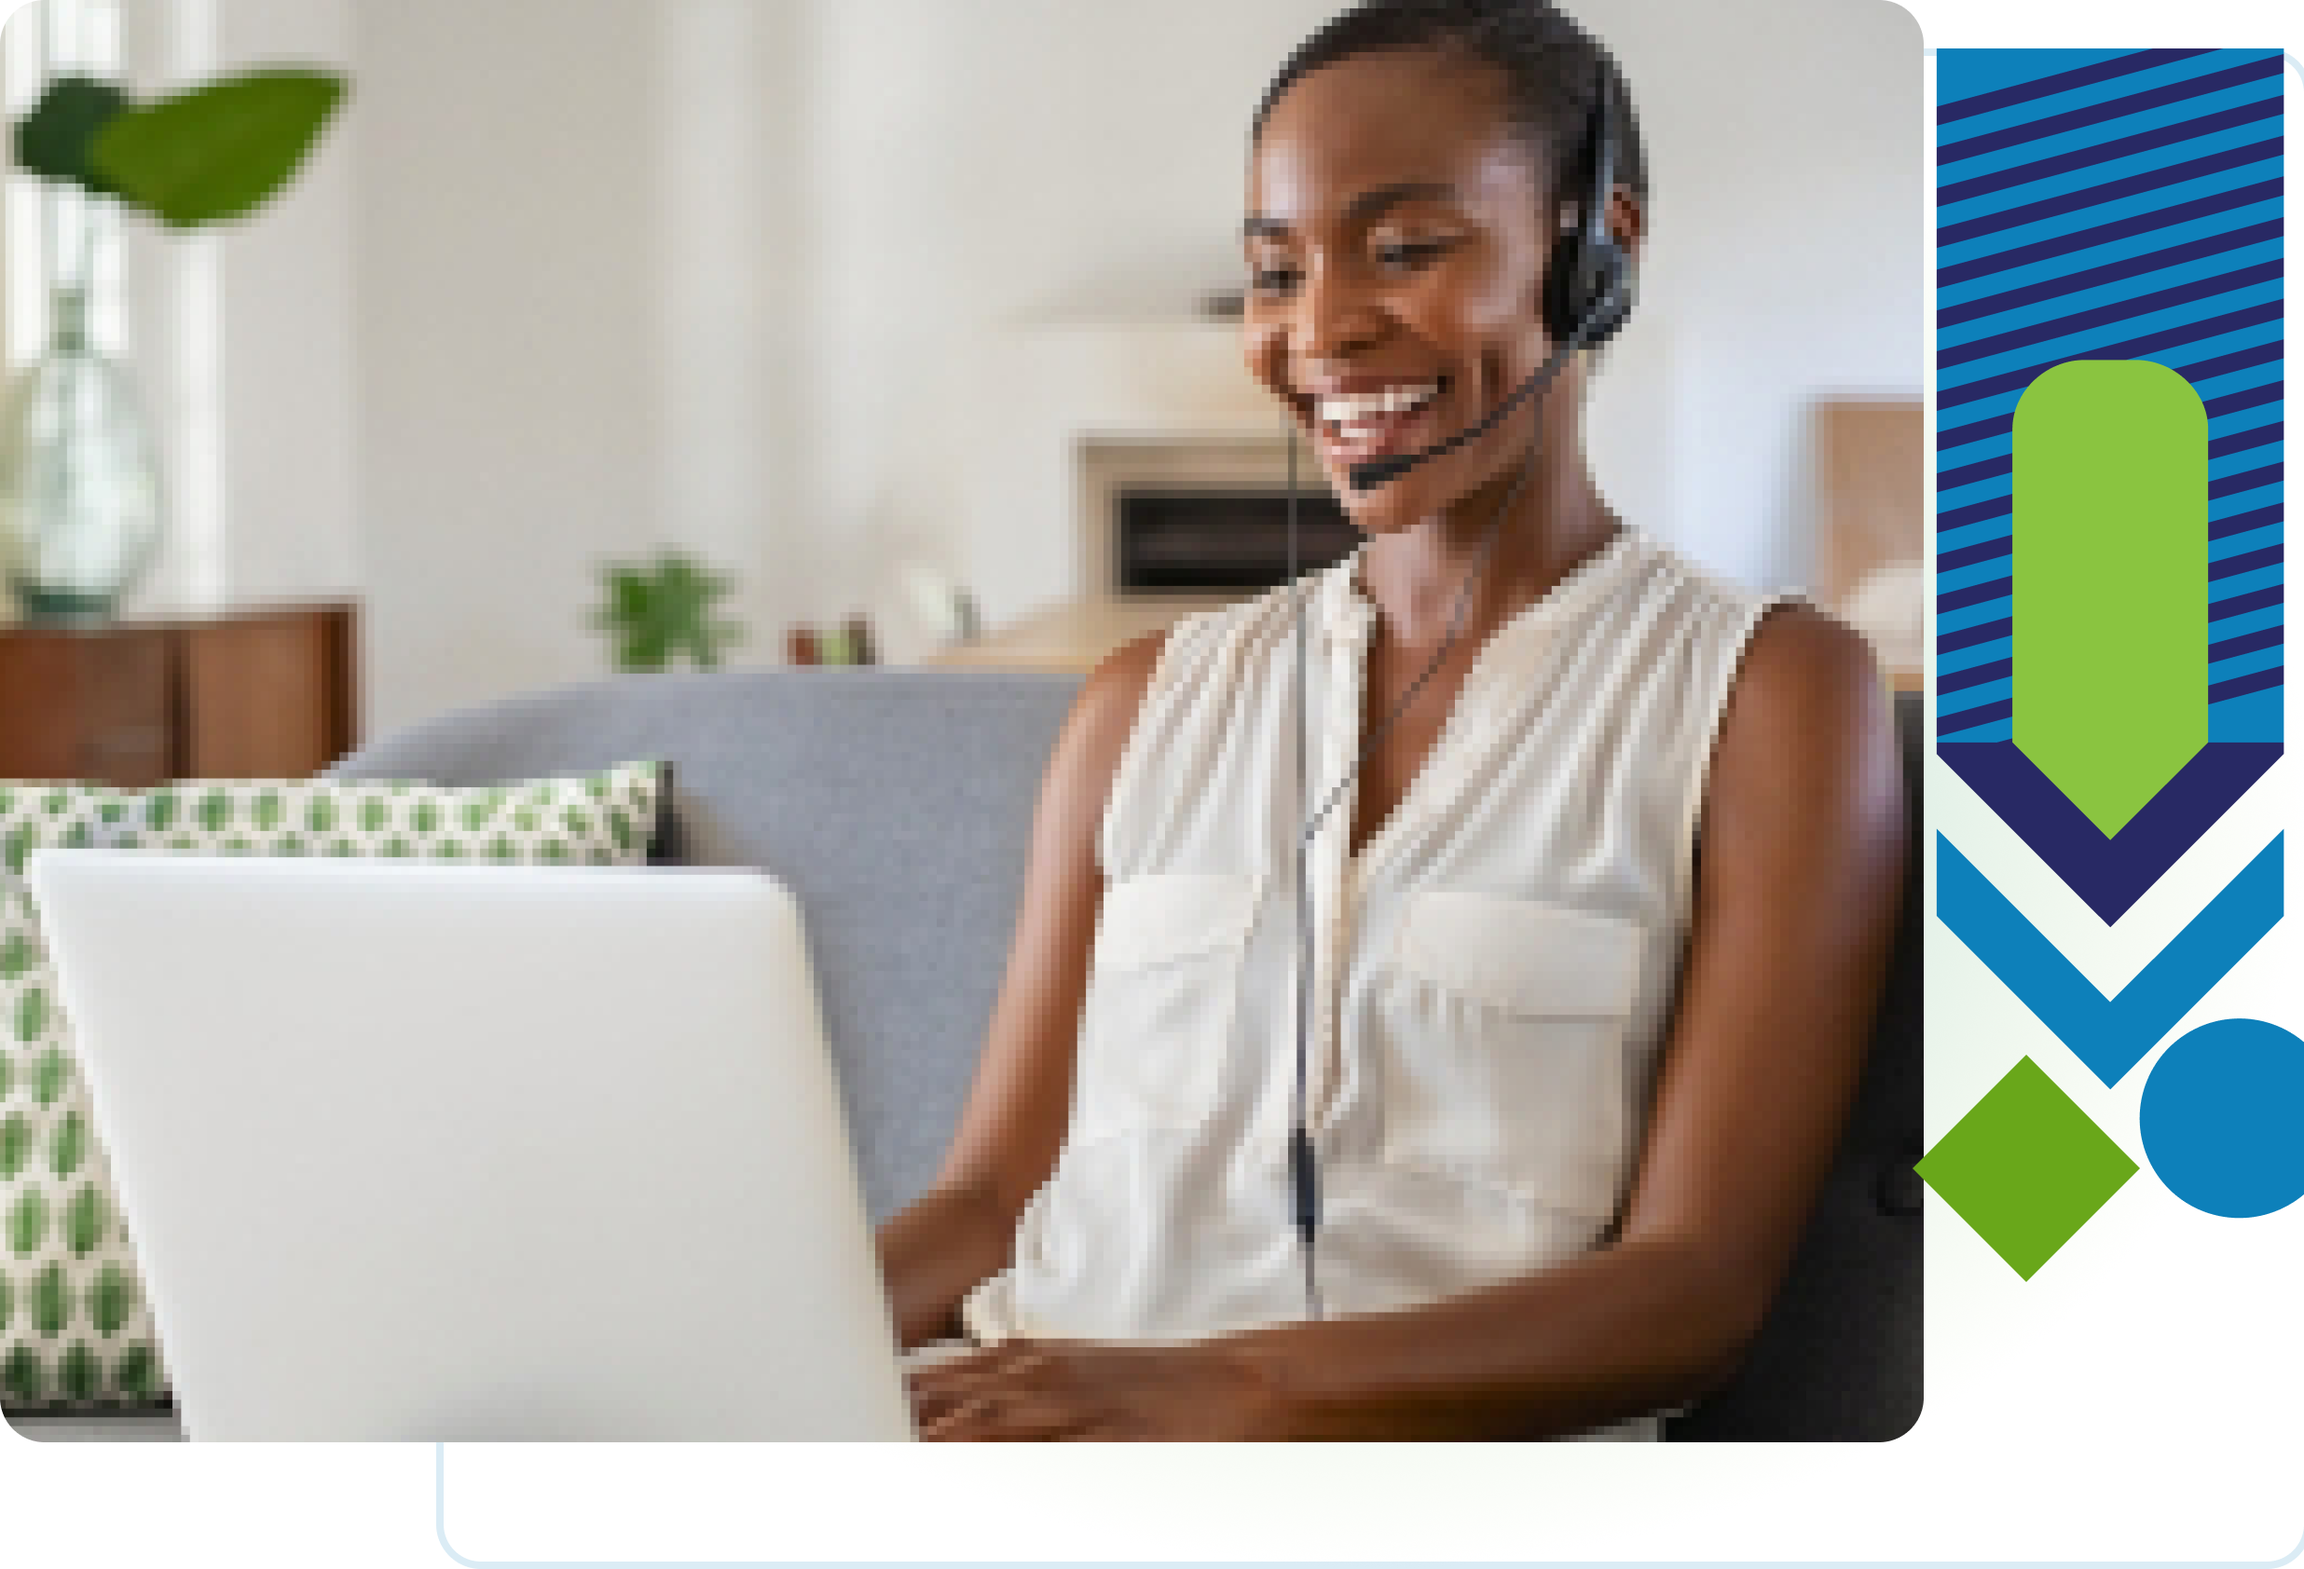
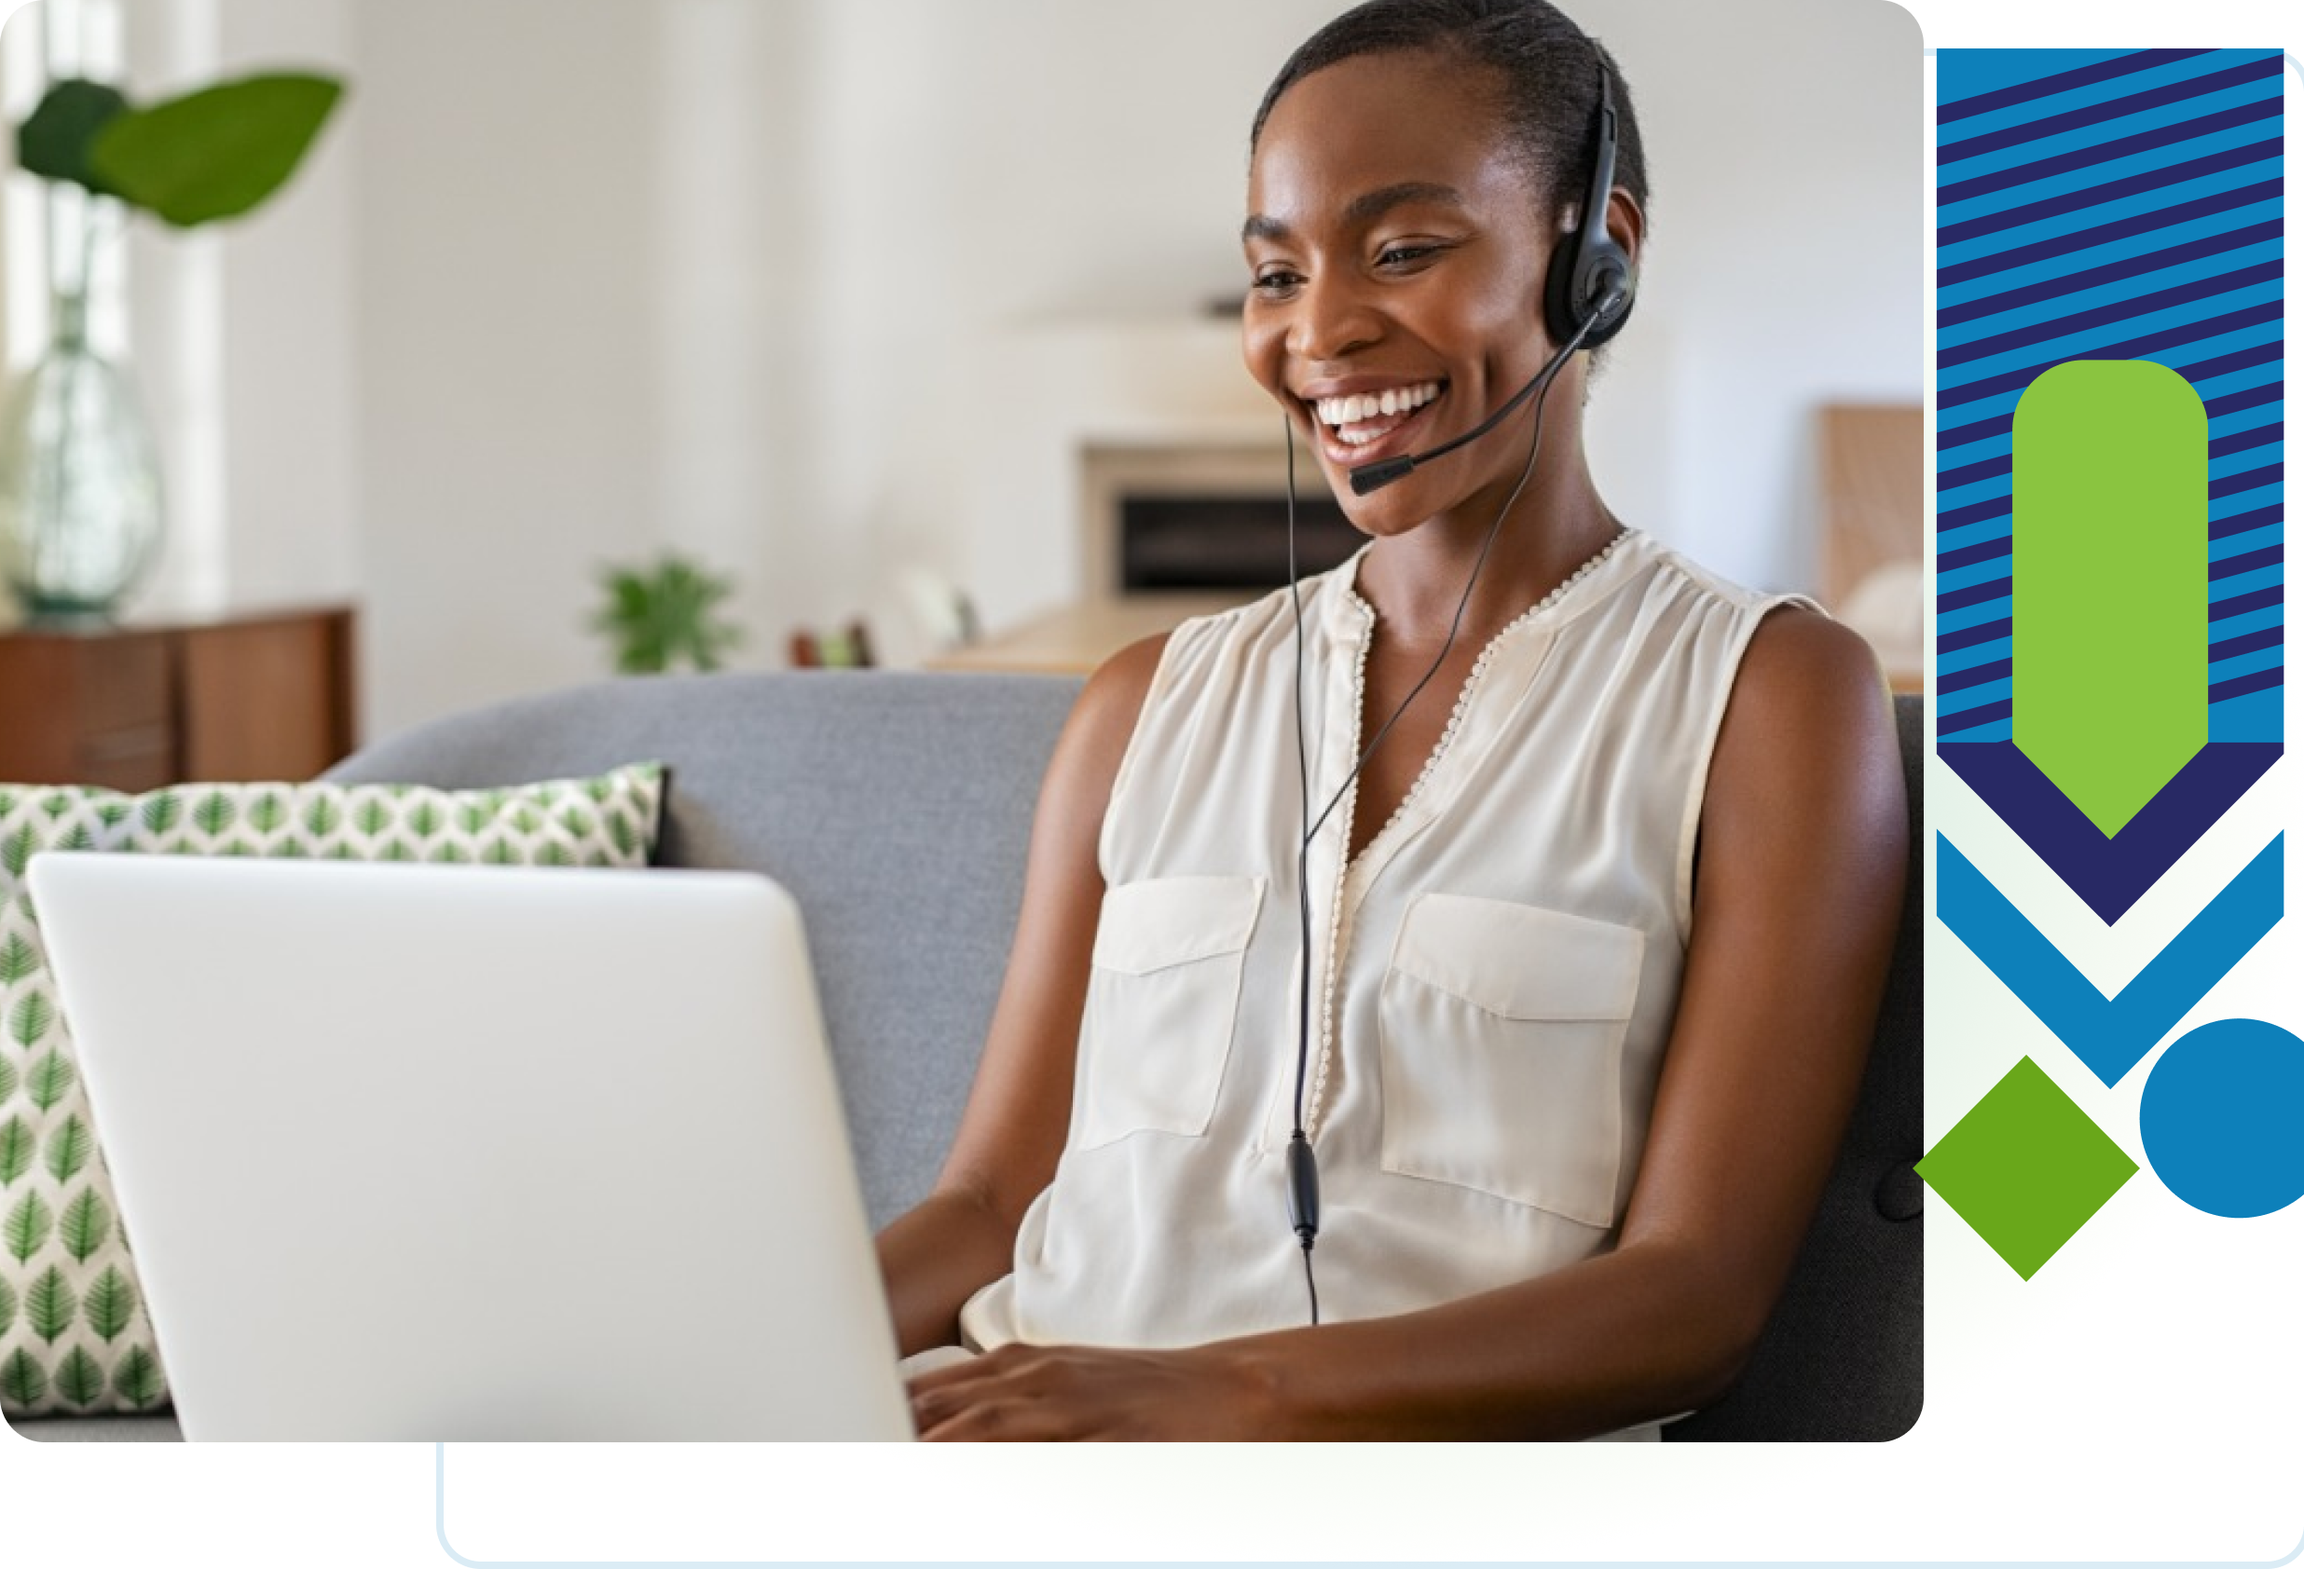
Fix About

diff --git a/about-us.html b/about-us.html
@@ -228,11 +228,11 @@
                 <div class="grid lg:grid-cols-2  z-20">
                     <div class="items-center flex lg:p-20">
                         <div class="">
-                            <div class="mb-16">
+                            <div class="lg:mb-16">
                                 <h1 class="lg:text-5xl text-2xl text-blue-900 font-bold self-center">The Company</h1>
                             </div>
-                            <div id="landing-img-cont" class="lg:hidden MOBILE my-4">
-
+                            <div class="lg:hidden MOBILE my-4">
+                                <img src="./images/mobile/talklady.png" alt="" srcset="">
                             </div>
                             <p class="leading-8 font-light text-gray-700 min-h-36">
                                 Talkcoms Limited was founded to provide organizations of all kinds a full-service canter
@@ -249,8 +249,8 @@
                         </div>
                     </div>
                     <div class="h-auto ">
-                        <img id="landing-img" class="lg:w-[calc(45%)] lg:absolute right-0"
-                            src="./images/the-company.png" alt="" srcset="">
+                        <img class="lg:w-[calc(45%)] lg:absolute right-0 max-sm:hidden" src="./images/the-company.png"
+                            alt="" srcset="">
                     </div>
                 </div>
 
